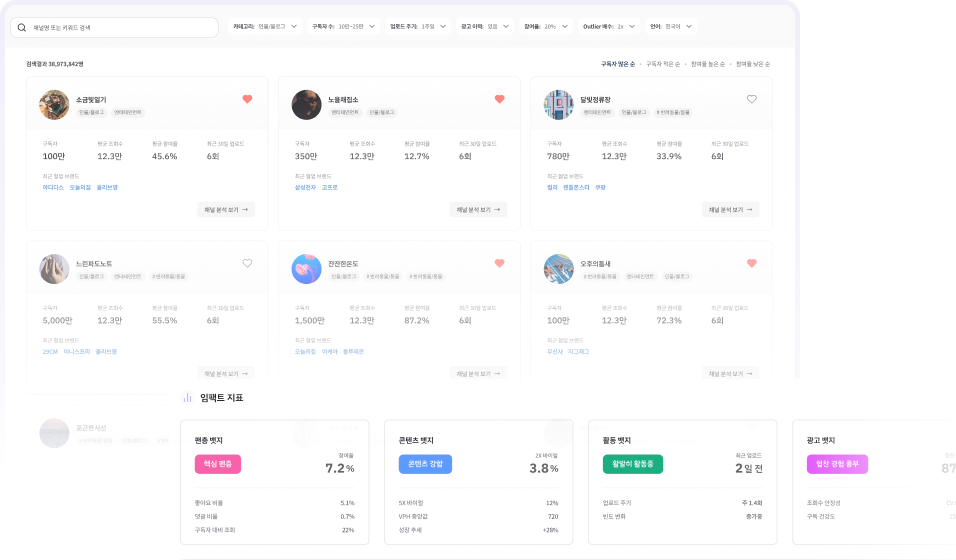
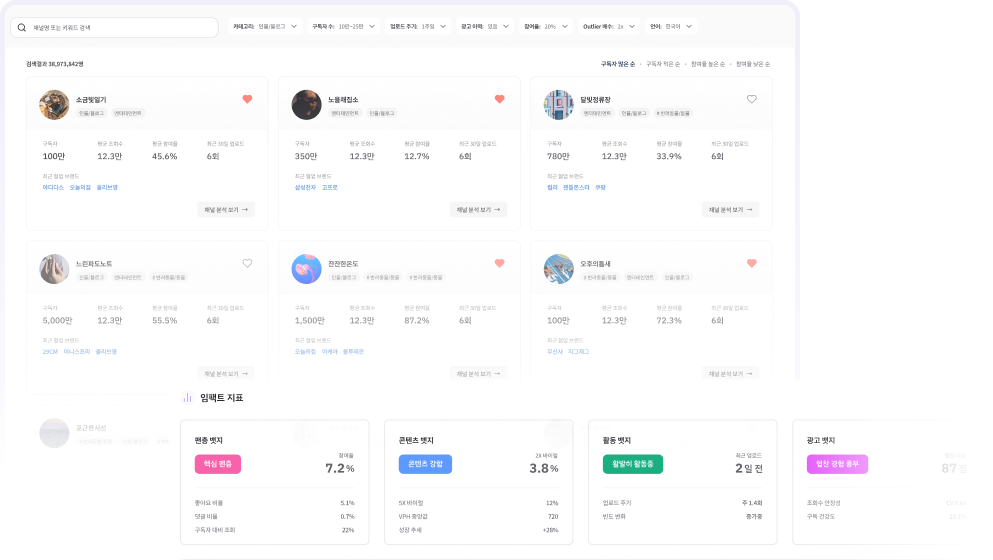
fix(IN-330): 랜딩 페이지 수정 및 사이드바
src/features/navigation/ui/NavGroupList.tsx
src/features/navigation/ui/NavMenuItem.tsx -> 사이드바 수정

diff --git a/src/widgets/home/ui/HeroMain.tsx b/src/widgets/home/ui/HeroMain.tsx
@@ -40,68 +40,76 @@ export function HeroMain() {
       {/* section02 - slide */}
       <section
         id='section02'
-        className='relative h-[calc(100vh-var(--spacing-header-height))] w-full snap-start snap-always overflow-hidden bg-cover bg-center bg-no-repeat'
+        className='relative flex h-[calc(100vh-var(--spacing-header-height))] w-full snap-start snap-always items-center overflow-hidden bg-cover bg-center bg-no-repeat px-[12rem]'
         style={{ backgroundImage: `url(${heroSection02Bg.src})` }}>
-        <div className='absolute top-[20rem] flex flex-col gap-40 px-[12rem]'>
-          <h3 className='text-ibm-display-sm-normal text-white'>
-            유튜브 스튜디오만으론 부족하니까,
-          </h3>
-          <p className='flex flex-col gap-12 text-noto-heading-sm-bold text-white'>
-            내 채널 분석부터 경쟁 채널 염탐까지 가능
-            <span className='text-noto-body-sm-normal text-neutral-200'>
-              기본, 유입, 참여, 성장 지표로 나누어 다른 툴보다 더 구체적이고
-              <br />
-              실질적인 성장 데이터를 한눈에 제공합니다.
-            </span>
-          </p>
-          <Button
-            color='secondary'
-            size='lg'
-            variant='outlined'
-            rightIcon={<IconArrowRight />}
-            className='bg-white'
-            onClick={open}>
-            인플루언서로 무료체험 시작
-          </Button>
-        </div>
-        <div className='absolute top-[12.2rem] left-[84.4rem] h-[59.7rem] w-[80rem]'>
-          <Image
-            src={heroSection02Item.src}
-            fill
-            alt='인플루언서 영상 성과 분석'
-          />
+        <div className='flex h-fit w-full items-center gap-[12rem]'>
+          <div className='flex flex-col gap-40'>
+            <h3 className='text-ibm-display-sm-normal text-white'>
+              유튜브 스튜디오만으론 부족하니까,
+            </h3>
+            <p className='flex flex-col gap-12 text-noto-heading-sm-bold text-white'>
+              내 채널 분석부터 경쟁 채널 염탐까지 가능
+              <span className='text-noto-body-sm-normal text-neutral-200'>
+                기본, 유입, 참여, 성장 지표로 나누어 다른 툴보다 더 구체적이고
+                <br />
+                실질적인 성장 데이터를 한눈에 제공합니다.
+              </span>
+            </p>
+            <Button
+              color='secondary'
+              size='lg'
+              variant='outlined'
+              rightIcon={<IconArrowRight />}
+              className='bg-white'
+              onClick={open}>
+              인플루언서로 무료체험 시작
+            </Button>
+          </div>
+          <div className='flex-1'>
+            <Image
+              src={heroSection02Item}
+              alt='인플루언서 영상 성과 분석'
+              className='h-auto w-full'
+            />
+          </div>
         </div>
       </section>
 
       {/* section03 - slide */}
       <section
-        className='relative h-[calc(100vh-var(--spacing-header-height))] w-full snap-start snap-always overflow-hidden bg-cover bg-center bg-no-repeat'
+        className='relative flex h-[calc(100vh-var(--spacing-header-height))] w-full snap-start snap-always items-center overflow-hidden bg-cover bg-center bg-no-repeat px-[12rem]'
         style={{ backgroundImage: `url(${heroSection03Bg.src})` }}>
-        <div className='absolute top-[18.5rem] flex flex-col gap-40 px-[12rem]'>
-          <h3 className='text-ibm-display-sm-normal text-white'>
-            인플루언서 리서치에
-            <br />
-            밤새던 마케터를 위해,
-          </h3>
-          <p className='flex flex-col gap-12 text-noto-heading-sm-bold text-white'>
-            인플루언서 탐색부터 경쟁사 협업 분석까지, 한 번에
-            <span className='text-noto-body-sm-normal text-neutral-200'>
-              강력한 가격 경쟁력으로 리소스 낭비 없는 인플루언서/채널 분석
-              지표를 경험해 보세요.
-            </span>
-          </p>
-          <Button
-            color='secondary'
-            size='lg'
-            variant='outlined'
-            rightIcon={<IconArrowRight />}
-            className='bg-white'
-            onClick={open}>
-            마케터로 무료체험 시작
-          </Button>
-        </div>
-        <div className='absolute top-[12.2rem] left-[84.4rem] h-[56rem] w-[99.3rem]'>
-          <Image src={heroSection03Item.src} fill alt='인플루언서 검색' />
+        <div className='flex h-fit w-full items-center gap-[12rem]'>
+          <div className='flex flex-col gap-40'>
+            <h3 className='text-ibm-display-sm-normal text-white'>
+              인플루언서 리서치에
+              <br />
+              밤새던 마케터를 위해,
+            </h3>
+            <p className='flex flex-col gap-12 text-noto-heading-sm-bold text-white'>
+              인플루언서 탐색부터 경쟁사 협업 분석까지, 한 번에
+              <span className='text-noto-body-sm-normal text-neutral-200'>
+                강력한 가격 경쟁력으로 리소스 낭비 없는 인플루언서/채널 분석
+                지표를 경험해 보세요.
+              </span>
+            </p>
+            <Button
+              color='secondary'
+              size='lg'
+              variant='outlined'
+              rightIcon={<IconArrowRight />}
+              className='bg-white'
+              onClick={open}>
+              마케터로 무료체험 시작
+            </Button>
+          </div>
+          <div className='flex-1'>
+            <Image
+              src={heroSection03Item}
+              alt='인플루언서 영상 성과 분석'
+              className='h-auto w-full'
+            />
+          </div>
         </div>
       </section>
     </>

diff --git a/src/features/navigation/ui/NavMenuItem.tsx b/src/features/navigation/ui/NavMenuItem.tsx
@@ -5,19 +5,21 @@ import { useYoutubeConnectModal } from '@/features/auth/model/useYoutubeConnectM
 import { useAuth } from '@/features/auth/model/useAuth'
 import type { NavItem } from '../model/types'
 import Link from 'next/link'
+import { cn } from '@/shared/lib/utils'
 
 interface NavMenuItemProps {
   item: NavItem
+  isActive: boolean
 }
 
-export const NavMenuItem = ({ item }: NavMenuItemProps) => {
+export const NavMenuItem = ({ item, isActive }: NavMenuItemProps) => {
   const { isLoggedIn, user } = useAuth()
   const openLoginModal = useLoginModal((s) => s.open)
   const openYoutubeConnectModal = useYoutubeConnectModal((s) => s.open)
 
   const isChannelConnected = Boolean(
     user?.userChannelDetails?.youtubeChannelId &&
-      user?.userChannelDetails?.youtubeChannelName
+    user?.userChannelDetails?.youtubeChannelName
   )
 
   const handleClick = (e: React.MouseEvent) => {
@@ -34,10 +36,15 @@ export const NavMenuItem = ({ item }: NavMenuItemProps) => {
 
   return (
     <SidebarMenuItem>
-      <SidebarMenuButton>
+      <SidebarMenuButton
+        className={cn(
+          isActive
+            ? 'bg-btn-primary-outlined-hover text-brand-primary'
+            : 'bg-white text-text-and-icon-primary'
+        )}>
         <Link
           href={item.url}
-          className='flex items-center gap-8'
+          className='flex w-full items-center gap-8'
           onClick={handleClick}>
           {item.icon && (
             <SidebarIcon

diff --git a/src/features/navigation/ui/NavGroupList.tsx b/src/features/navigation/ui/NavGroupList.tsx
@@ -3,10 +3,12 @@ import {
   SidebarGroupLabel,
   SidebarMenu,
 } from '@/shared/ui/shadcn/sidebar'
+import { usePathname } from 'next/navigation'
 import { NAV_ITEMS } from '../model/navItems'
 import { NavMenuItem } from './NavMenuItem'
 
 export function NavGroupList() {
+  const currentPath = usePathname()
   return (
     <>
       {NAV_ITEMS.map((group) => {
@@ -14,9 +16,18 @@ export function NavGroupList() {
           <SidebarGroup key={group.group}>
             <SidebarGroupLabel>{group.group}</SidebarGroupLabel>
             <SidebarMenu>
-              {group.items.map((item) => (
-                <NavMenuItem key={item.title} item={item} />
-              ))}
+              {group.items.map((item) => {
+                const isActive =
+                  currentPath === item.url ||
+                  (currentPath?.startsWith(item.url + '/') ?? false)
+                return (
+                  <NavMenuItem
+                    key={item.title}
+                    item={item}
+                    isActive={isActive}
+                  />
+                )
+              })}
             </SidebarMenu>
           </SidebarGroup>
         )
